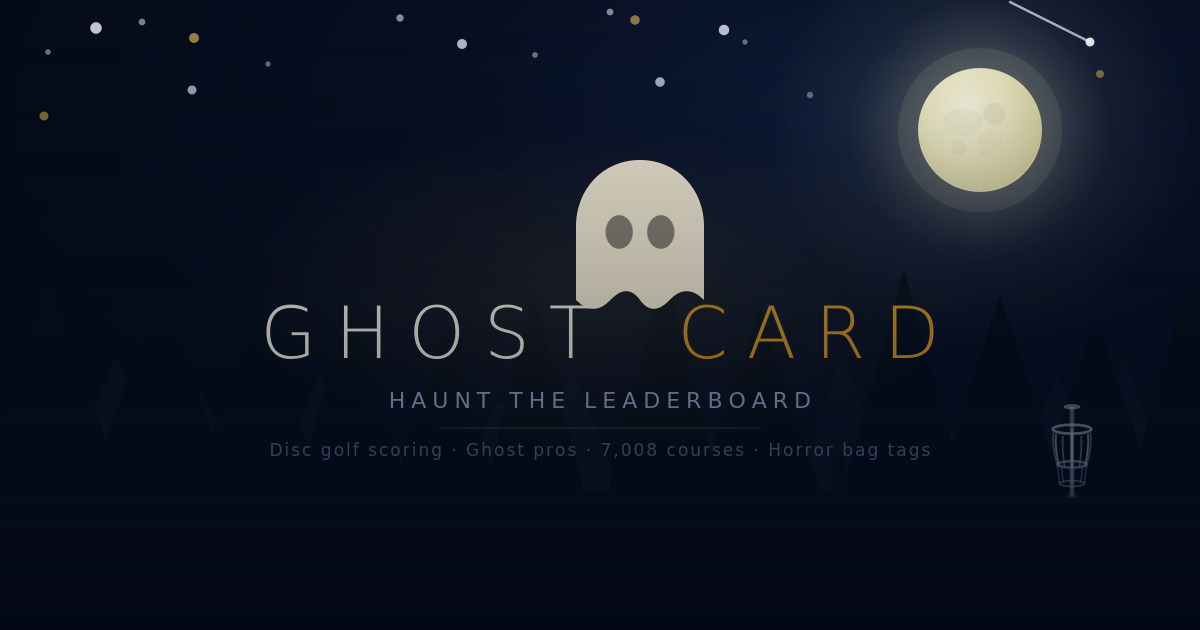
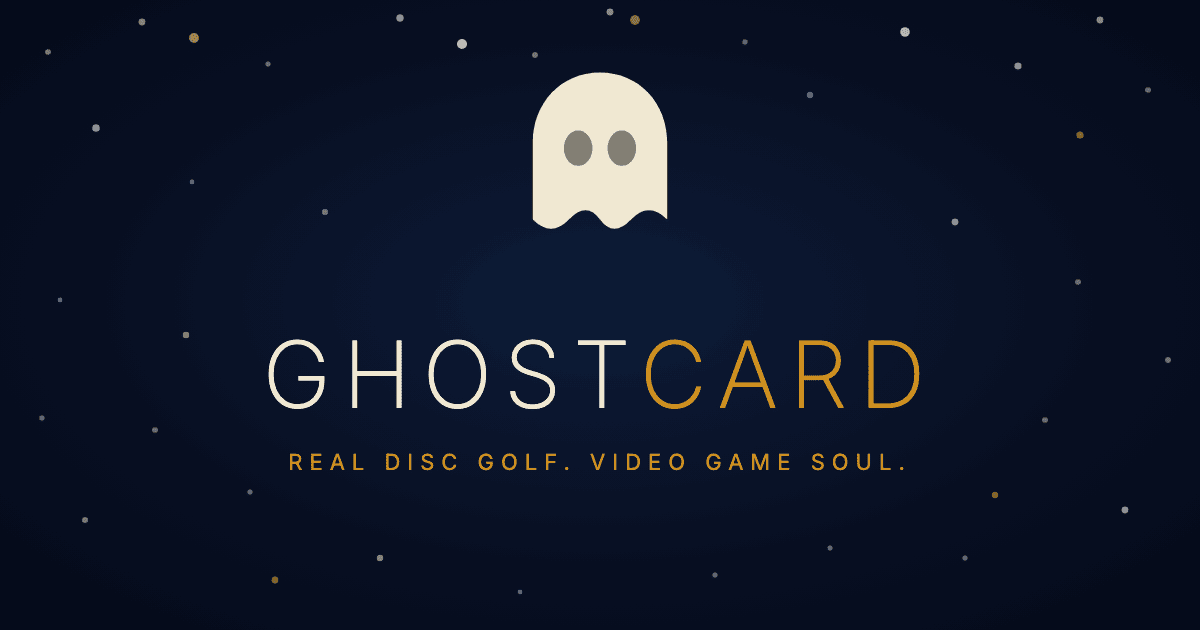
Rebuild og-image: drop basket/moon, single gold tagline, bulletproof text layout
- Rewrite og-image.html with one <text> + two <tspan>s so GHOST/CARD cannot
  collide when font metrics drift. Removes basket, moon, treeline, vignette.
  Single tagline "REAL DISC GOLF. VIDEO GAME SOUL." in harvest gold.
- Regenerate og-image.png at 1200x630 (2.9 MB -> 25 KB, 99% smaller).
- CLAUDE.md: correct logo font spec (Inter 200, not Montserrat) and document
  the dual-tagline strategy (hero positioning vs. social brand hook).

diff --git a/og-image.html b/og-image.html
@@ -3,230 +3,92 @@
 <head>
 <meta charset="UTF-8"/>
 <style>
-  @import url('https://fonts.googleapis.com/css2?family=Inter:wght@200;300;400;500;600&display=swap');
+  @import url('https://fonts.googleapis.com/css2?family=Inter:wght@200;400&display=block');
   *{margin:0;padding:0;box-sizing:border-box}
-  body{width:1200px;height:630px;overflow:hidden;font-family:'Inter',sans-serif;background:#040A18}
+  html,body{width:1200px;height:630px;overflow:hidden;font-family:'Inter',sans-serif;background:#040A18}
 </style>
 </head>
 <body>
 <svg width="1200" height="630" viewBox="0 0 1200 630" xmlns="http://www.w3.org/2000/svg">
   <defs>
-    <!-- Sky -->
-    <radialGradient id="sky" cx="72%" cy="18%" r="75%">
+    <radialGradient id="sky" cx="50%" cy="48%" r="75%">
       <stop offset="0%" stop-color="#0D1C38"/>
-      <stop offset="45%" stop-color="#080F22"/>
+      <stop offset="55%" stop-color="#080F22"/>
       <stop offset="100%" stop-color="#040A18"/>
     </radialGradient>
-    <!-- Moon halos -->
-    <radialGradient id="halo1" cx="50%" cy="50%" r="50%">
-      <stop offset="0%" stop-color="#EDE8C0" stop-opacity="0.20"/>
-      <stop offset="50%" stop-color="#EDE8C0" stop-opacity="0.07"/>
-      <stop offset="100%" stop-color="#EDE8C0" stop-opacity="0"/>
-    </radialGradient>
-    <radialGradient id="halo2" cx="50%" cy="50%" r="50%">
-      <stop offset="0%" stop-color="#F0ECC8" stop-opacity="0.28"/>
-      <stop offset="100%" stop-color="#F0ECC8" stop-opacity="0"/>
-    </radialGradient>
-    <radialGradient id="moonBody" cx="38%" cy="34%" r="65%">
-      <stop offset="0%" stop-color="#FEFBE8"/>
-      <stop offset="55%" stop-color="#EEEAC2"/>
-      <stop offset="100%" stop-color="#D8D4A4"/>
-    </radialGradient>
-    <!-- Ground -->
-    <linearGradient id="ground" x1="0" y1="0" x2="0" y2="1">
-      <stop offset="0%" stop-color="#060C18"/>
-      <stop offset="100%" stop-color="#030710"/>
-    </linearGradient>
-    <!-- Gold glow under logo -->
-    <radialGradient id="logoGlow" cx="50%" cy="50%" r="50%">
-      <stop offset="0%" stop-color="#C9A84C" stop-opacity="0.12"/>
-      <stop offset="100%" stop-color="#C9A84C" stop-opacity="0"/>
-    </radialGradient>
-    <!-- Bottom vignette -->
-    <linearGradient id="vignette" x1="0" y1="0" x2="0" y2="1">
-      <stop offset="0%" stop-color="#040A18" stop-opacity="0"/>
-      <stop offset="100%" stop-color="#040A18" stop-opacity="0.55"/>
-    </linearGradient>
   </defs>
 
   <!-- SKY -->
   <rect width="1200" height="630" fill="url(#sky)"/>
 
-  <!-- MOON — upper right -->
-  <circle cx="980" cy="130" r="210" fill="url(#halo1)"/>
-  <circle cx="980" cy="130" r="130" fill="url(#halo2)"/>
-  <circle cx="980" cy="130" r="82" fill="#EDE8C0" fill-opacity="0.10"/>
-  <circle cx="980" cy="130" r="62" fill="url(#moonBody)"/>
-  <!-- Craters -->
-  <ellipse cx="963" cy="122" rx="20" ry="14" fill="#C8C292" fill-opacity="0.13"/>
-  <ellipse cx="990" cy="140" rx="13" ry="10" fill="#C8C292" fill-opacity="0.10"/>
-  <circle cx="994" cy="114" r="11" fill="#C4BC8C" fill-opacity="0.20"/>
-  <circle cx="959" cy="148" r="7.5" fill="#C4BC8C" fill-opacity="0.15"/>
-  <circle cx="985" cy="152" r="5" fill="#C4BC8C" fill-opacity="0.13"/>
-
-  <!-- STARS -->
-  <circle cx="48" cy="52" r="2.8" fill="#E8EDF6" fill-opacity=".48"/>
-  <circle cx="142" cy="22" r="3.4" fill="#E8EDF6" fill-opacity=".52"/>
-  <circle cx="268" cy="64" r="2.6" fill="#E8EDF6" fill-opacity=".44"/>
-  <circle cx="400" cy="18" r="3.7" fill="#E8EDF6" fill-opacity=".58"/>
-  <circle cx="535" cy="55" r="2.9" fill="#E8EDF6" fill-opacity=".46"/>
-  <circle cx="610" cy="12" r="3.4" fill="#E8EDF6" fill-opacity=".54"/>
-  <circle cx="745" cy="42" r="2.7" fill="#E8EDF6" fill-opacity=".42"/>
-  <circle cx="810" cy="95" r="3.2" fill="#E8EDF6" fill-opacity=".40"/>
-  <circle cx="96" cy="28" r="5.8" fill="#E8EDF6" fill-opacity=".85"/>
-  <circle cx="462" cy="44" r="5.0" fill="#E8EDF6" fill-opacity=".78"/>
-  <circle cx="660" cy="82" r="4.8" fill="#E8EDF6" fill-opacity=".72"/>
-  <circle cx="724" cy="30" r="5.3" fill="#E8EDF6" fill-opacity=".80"/>
-  <circle cx="192" cy="90" r="4.5" fill="#E8EDF6" fill-opacity=".68"/>
-  <circle cx="194" cy="38" r="5.0" fill="#C9A84C" fill-opacity=".76"/>
-  <circle cx="635" cy="20" r="4.8" fill="#C9A84C" fill-opacity=".68"/>
-  <circle cx="44" cy="116" r="4.5" fill="#C9A84C" fill-opacity=".64"/>
-  <circle cx="1100" cy="74" r="4.0" fill="#C9A84C" fill-opacity=".60"/>
-  <!-- Shooting star -->
-  <line x1="1090" y1="42" x2="1010" y2="2" stroke="#E8EDF6" stroke-width="2.5" stroke-linecap="round" stroke-opacity=".70"/>
-  <circle cx="1090" cy="42" r="4.5" fill="#FFFFFF" fill-opacity=".90"/>
-
-  <!-- TREELINE — Layer 1 farthest -->
-  <g fill="#0B1A2E" opacity="0.55">
-    <polygon points="0,490 43,430 86,490"/>
-    <polygon points="62,490 110,405 158,490"/>
-    <polygon points="138,490 178,436 218,490"/>
-    <polygon points="210,490 252,418 294,490"/>
-    <polygon points="338,490 380,422 422,490"/>
-    <polygon points="400,490 448,398 496,490"/>
-    <polygon points="600,490 644,414 688,490"/>
-    <polygon points="668,490 710,434 752,490"/>
-    <polygon points="890,490 935,405 980,490"/>
-    <polygon points="958,490 1003,424 1048,490"/>
-    <polygon points="1092,490 1138,419 1184,490"/>
-    <polygon points="1144,490 1185,440 1240,490"/>
+  <!-- STARS — cream, distributed across the whole canvas -->
+  <g fill="#E8EDF6">
+    <circle cx="48"   cy="52"  r="2.8" opacity=".48"/>
+    <circle cx="142"  cy="22"  r="3.4" opacity=".52"/>
+    <circle cx="96"   cy="128" r="3.8" opacity=".60"/>
+    <circle cx="268"  cy="64"  r="2.6" opacity=".44"/>
+    <circle cx="192"  cy="182" r="2.4" opacity=".40"/>
+    <circle cx="325"  cy="212" r="3.0" opacity=".46"/>
+    <circle cx="400"  cy="18"  r="3.7" opacity=".58"/>
+    <circle cx="462"  cy="44"  r="5.0" opacity=".78"/>
+    <circle cx="535"  cy="55"  r="2.9" opacity=".46"/>
+    <circle cx="610"  cy="12"  r="3.4" opacity=".54"/>
+    <circle cx="745"  cy="42"  r="2.7" opacity=".42"/>
+    <circle cx="810"  cy="95"  r="3.2" opacity=".40"/>
+    <circle cx="905"  cy="32"  r="4.8" opacity=".72"/>
+    <circle cx="1018" cy="66"  r="3.6" opacity=".56"/>
+    <circle cx="1100" cy="20"  r="3.4" opacity=".54"/>
+    <circle cx="1148" cy="90"  r="2.8" opacity=".44"/>
+    <circle cx="60"   cy="300" r="2.4" opacity=".40"/>
+    <circle cx="155"  cy="430" r="2.8" opacity=".44"/>
+    <circle cx="85"   cy="520" r="3.0" opacity=".48"/>
+    <circle cx="250"  cy="492" r="2.6" opacity=".42"/>
+    <circle cx="380"  cy="558" r="3.2" opacity=".52"/>
+    <circle cx="1045" cy="420" r="2.8" opacity=".44"/>
+    <circle cx="1125" cy="510" r="3.4" opacity=".56"/>
+    <circle cx="965"  cy="558" r="2.6" opacity=".42"/>
+    <circle cx="1168" cy="360" r="2.9" opacity=".46"/>
+    <circle cx="830"  cy="548" r="2.5" opacity=".40"/>
+    <circle cx="42"   cy="418" r="2.7" opacity=".42"/>
+    <circle cx="186"  cy="335" r="3.3" opacity=".50"/>
+    <circle cx="1078" cy="282" r="2.8" opacity=".44"/>
+    <circle cx="955"  cy="222" r="3.4" opacity=".56"/>
+    <circle cx="715"  cy="575" r="2.6" opacity=".42"/>
+    <circle cx="520"  cy="592" r="2.4" opacity=".38"/>
   </g>
 
-  <!-- TREELINE — Layer 2 mid -->
-  <g fill="#081422" opacity="0.82">
-    <polygon points="-15,490 37,386 89,490"/>
-    <polygon points="55,490 117,356 179,490"/>
-    <polygon points="153,490 202,392 251,490"/>
-    <polygon points="270,490 320,374 370,490"/>
-    <polygon points="454,490 500,398 546,490"/>
-    <polygon points="522,490 571,368 620,490"/>
-    <polygon points="730,490 778,386 826,490"/>
-    <polygon points="792,490 843,356 894,490"/>
-    <polygon points="1012,490 1057,376 1102,490"/>
-    <polygon points="1078,490 1126,362 1174,490"/>
-    <polygon points="1154,490 1200,392 1246,490"/>
-    <rect x="110" y="454" width="12" height="36" fill="#060E1A"/>
-    <rect x="314" y="454" width="12" height="36" fill="#060E1A"/>
-    <rect x="562" y="454" width="12" height="36" fill="#060E1A"/>
-    <rect x="832" y="454" width="12" height="36" fill="#060E1A"/>
-    <rect x="1116" y="454" width="12" height="36" fill="#060E1A"/>
+  <!-- STARS — gold accents -->
+  <g fill="#C9A84C">
+    <circle cx="194"  cy="38"  r="5.0" opacity=".76"/>
+    <circle cx="635"  cy="20"  r="4.8" opacity=".68"/>
+    <circle cx="1080" cy="135" r="3.6" opacity=".62"/>
+    <circle cx="275"  cy="580" r="3.4" opacity=".58"/>
+    <circle cx="995"  cy="495" r="3.2" opacity=".56"/>
   </g>
 
-  <!-- TREELINE — Layer 3 foreground -->
-  <g fill="#040C18">
-    <polygon points="-24,490 49,270 122,490"/>
-    <polygon points="86,490 160,294 234,490"/>
-    <polygon points="190,490 258,320 326,490"/>
-    <polygon points="295,490 352,300 409,490"/>
-    <polygon points="393,490 446,332 499,490"/>
-    <polygon points="485,490 534,290 583,490"/>
-    <polygon points="608,490 664,264 720,490"/>
-    <polygon points="700,490 760,307 820,490"/>
-    <polygon points="843,490 904,270 965,490"/>
-    <polygon points="938,490 1000,294 1062,490"/>
-    <polygon points="1038,490 1096,320 1154,490"/>
-    <polygon points="1130,490 1187,280 1244,490"/>
-    <rect x="40" y="440" width="18" height="50" fill="#030A14"/>
-    <rect x="150" y="440" width="18" height="50" fill="#030A14"/>
-    <rect x="248" y="440" width="16" height="50" fill="#030A14"/>
-    <rect x="343" y="440" width="16" height="50" fill="#030A14"/>
-    <rect x="438" y="440" width="16" height="50" fill="#030A14"/>
-    <rect x="526" y="440" width="16" height="50" fill="#030A14"/>
-    <rect x="655" y="440" width="18" height="50" fill="#030A14"/>
-    <rect x="751" y="440" width="18" height="50" fill="#030A14"/>
-    <rect x="895" y="440" width="18" height="50" fill="#030A14"/>
-    <rect x="990" y="440" width="18" height="50" fill="#030A14"/>
-    <rect x="1088" y="440" width="16" height="50" fill="#030A14"/>
-    <rect x="1176" y="440" width="16" height="50" fill="#030A14"/>
-  </g>
-
-  <!-- GROUND -->
-  <rect x="0" y="490" width="1200" height="140" fill="url(#ground)"/>
-
-  <!-- DISC GOLF BASKET — right side, sitting at treeline -->
-  <g transform="translate(1072,490) scale(3.2)">
-    <g opacity="0.82">
-      <rect x="-0.7" y="-26" width="1.4" height="28" rx="0.7" fill="rgba(110,145,175,0.65)"/>
-      <ellipse cx="0" cy="-26" rx="2.6" ry="0.85" fill="rgba(180,200,220,0.62)"/>
-      <ellipse cx="0" cy="-19" rx="6.0" ry="1.4" fill="none" stroke="rgba(165,188,210,0.75)" stroke-width="0.85"/>
-      <path d="M0,-17 Q0,-12 0,-7" fill="none" stroke="rgba(175,195,215,0.70)" stroke-width="0.55"/>
-      <path d="M2.9,-17 Q3.1,-12 2.3,-7.4" fill="none" stroke="rgba(145,170,195,0.55)" stroke-width="0.55"/>
-      <path d="M5,-17.4 Q5.4,-12.6 4,-7.7" fill="none" stroke="rgba(175,195,215,0.70)" stroke-width="0.55"/>
-      <path d="M5.8,-18 Q6.2,-13 4.6,-8" fill="none" stroke="rgba(145,170,195,0.55)" stroke-width="0.55"/>
-      <path d="M0,-19 Q0,-14 0,-8.7" fill="none" stroke="rgba(175,195,215,0.70)" stroke-width="0.55"/>
-      <path d="M-2.9,-17 Q-3.1,-12 -2.3,-7.4" fill="none" stroke="rgba(145,170,195,0.55)" stroke-width="0.55"/>
-      <path d="M-5,-17.4 Q-5.4,-12.6 -4,-7.7" fill="none" stroke="rgba(175,195,215,0.70)" stroke-width="0.55"/>
-      <path d="M-5.8,-18 Q-6.2,-13 -4.6,-8" fill="none" stroke="rgba(145,170,195,0.55)" stroke-width="0.55"/>
-      <ellipse cx="0" cy="-8" rx="4.6" ry="1.0" fill="none" stroke="rgba(148,172,198,0.65)" stroke-width="0.70"/>
-      <line x1="0" y1="-8" x2="0" y2="-2" stroke="rgba(135,160,185,0.45)" stroke-width="0.45"/>
-      <line x1="3.3" y1="-8" x2="2.8" y2="-2" stroke="rgba(135,160,185,0.45)" stroke-width="0.45"/>
-      <line x1="4.6" y1="-8" x2="3.9" y2="-2" stroke="rgba(135,160,185,0.45)" stroke-width="0.45"/>
-      <line x1="-3.3" y1="-8" x2="-2.8" y2="-2" stroke="rgba(135,160,185,0.45)" stroke-width="0.45"/>
-      <line x1="-4.6" y1="-8" x2="-3.9" y2="-2" stroke="rgba(135,160,185,0.45)" stroke-width="0.45"/>
-      <ellipse cx="0" cy="-2" rx="3.9" ry="0.9" fill="none" stroke="rgba(132,158,184,0.52)" stroke-width="0.55"/>
-      <ellipse cx="0" cy="2" rx="1.8" ry="0.6" fill="rgba(90,120,150,0.38)"/>
-    </g>
-  </g>
-
-  <!-- LOGO GLOW -->
-  <ellipse cx="600" cy="290" rx="380" ry="160" fill="url(#logoGlow)"/>
-
-  <!-- GHOST ICON — centered -->
-  <g transform="translate(560,148) scale(8)">
+  <!-- GHOST ICON — centered, with breathing room above wordmark -->
+  <g transform="translate(516,60) scale(8.4)">
     <path d="M10 1.5 C5.3 1.5, 2 5.2, 2 9.8 L2 19 Q4.2 21.2, 6.3 19 Q8.4 16.8, 10 19 Q11.6 21.2, 13.7 19 Q15.8 16.8, 18 19 L18 9.8 C18 5.2, 14.7 1.5, 10 1.5 Z" fill="#F0E8D0"/>
     <ellipse cx="7.4" cy="10.5" rx="1.7" ry="2.1" fill="rgba(0,0,0,0.45)"/>
     <ellipse cx="12.6" cy="10.5" rx="1.7" ry="2.1" fill="rgba(0,0,0,0.45)"/>
   </g>
 
-  <!-- WORDMARK -->
-  <text x="600" y="358"
+  <!-- WORDMARK — one <text>, two <tspan>s. Lays out sequentially, cannot collide. -->
+  <text x="600" y="408"
     font-family="Inter, system-ui, sans-serif"
     font-weight="200"
-    font-size="72"
-    letter-spacing="19"
-    fill="#EDE9DC"
-    text-anchor="middle">GHOST</text>
-  <text x="726" y="358"
-    font-family="Inter, system-ui, sans-serif"
-    font-weight="200"
-    font-size="72"
-    letter-spacing="19"
-    fill="#CF9120"
-    text-anchor="middle">CARD</text>
+    font-size="92"
+    letter-spacing="12"
+    text-anchor="middle"><tspan fill="#EDE9DC">GHOST</tspan><tspan fill="#CF9120">CARD</tspan></text>
 
   <!-- TAGLINE -->
-  <text x="600" y="408"
+  <text x="600" y="470"
     font-family="Inter, system-ui, sans-serif"
     font-weight="400"
     font-size="22"
-    letter-spacing="6"
-    fill="#8FA4C4"
-    text-anchor="middle">HAUNT THE LEADERBOARD</text>
-
-  <!-- Thin gold rule -->
-  <line x1="440" y1="428" x2="760" y2="428" stroke="#C9A84C" stroke-width="0.8" stroke-opacity="0.4"/>
-
-  <!-- SUB LINE -->
-  <text x="600" y="456"
-    font-family="Inter, system-ui, sans-serif"
-    font-weight="400"
-    font-size="17"
-    letter-spacing="2"
-    fill="#546082"
-    text-anchor="middle">Disc golf scoring · Ghost pros · 7,008 courses · Horror bag tags</text>
-
-  <!-- Bottom vignette -->
-  <rect width="1200" height="630" fill="url(#vignette)"/>
+    letter-spacing="7"
+    fill="#CF9120"
+    text-anchor="middle">REAL DISC GOLF. VIDEO GAME SOUL.</text>
 </svg>
 </body>
 </html>

diff --git a/CLAUDE.md b/CLAUDE.md
@@ -41,13 +41,14 @@ GitHub: github.com/deanlamont/ghost-card, github.com/deanlamont/ghost-card-site
 These rules are permanent. Never redesign, replace, or "improve" any of these elements.
 
 ### Logo Lockup
-- `FlatGhost` / `SimpleGhost` SVG + "Ghost" (cream, Montserrat weight 200) + "Card" (gold `#cf9120`)
+- `FlatGhost` / `SimpleGhost` SVG + "Ghost" (cream `#EDE9DC`, Inter weight 200) + "Card" (gold `#cf9120`, Inter weight 200)
 - Never replace the ghost SVG component or alter the wordmark typography.
+- Both wordmark halves are solid fills, not outlined/stroked. The "ghostly" look comes from Inter weight 200 at wide letter-spacing (hero: 10px, nav: 4px), not from a stroke.
 
 ### Typography
 - **UI text:** Inter — all body copy, buttons, labels, headers within the app.
-- **Logo only:** Montserrat weight 200 for the "Ghost" wordmark.
-- No other fonts.
+- **Logo wordmark:** Inter weight 200 at wide letter-spacing. No separate display font — the thin weight + tracking does the work.
+- No other fonts anywhere in the marketing site or app.
 
 ### Colors
 - Brand constants: `CYAN`, `LIME`, `GOLD`, `ORANGE`
@@ -66,6 +67,12 @@ These rules are permanent. Never redesign, replace, or "improve" any of these el
 - Horror-themed throughout. Deadpan horror comedy with small-town disc golf energy.
 - "Chet" is the canonical everyman voice archetype for app copy.
 - Solo play is free. App messaging must **never** make solo players feel bad for playing alone.
+
+### Taglines
+Two canonical taglines, each with a distinct role. **Never delete, swap, or "unify" them.**
+- **Product positioning (hero only):** `Real Disc Golf. Video Game Soul.` — used exactly once, in the homepage hero (`index.html` hero-tagline). This is the "what it is" line for disc golf players landing on the site.
+- **Brand hook (social + footer):** `Haunt the Leaderboard` — used in OG meta tags, Twitter card, the rendered `og-image.png`, and the site footer. This is the memorable line used anywhere the site appears outside its own hero (link unfurls, social previews, footer echo).
+- If a new surface needs a tagline, pick the one that matches its function: positioning on-site, brand hook off-site.
 
 ## Features Built (Current State)
 
